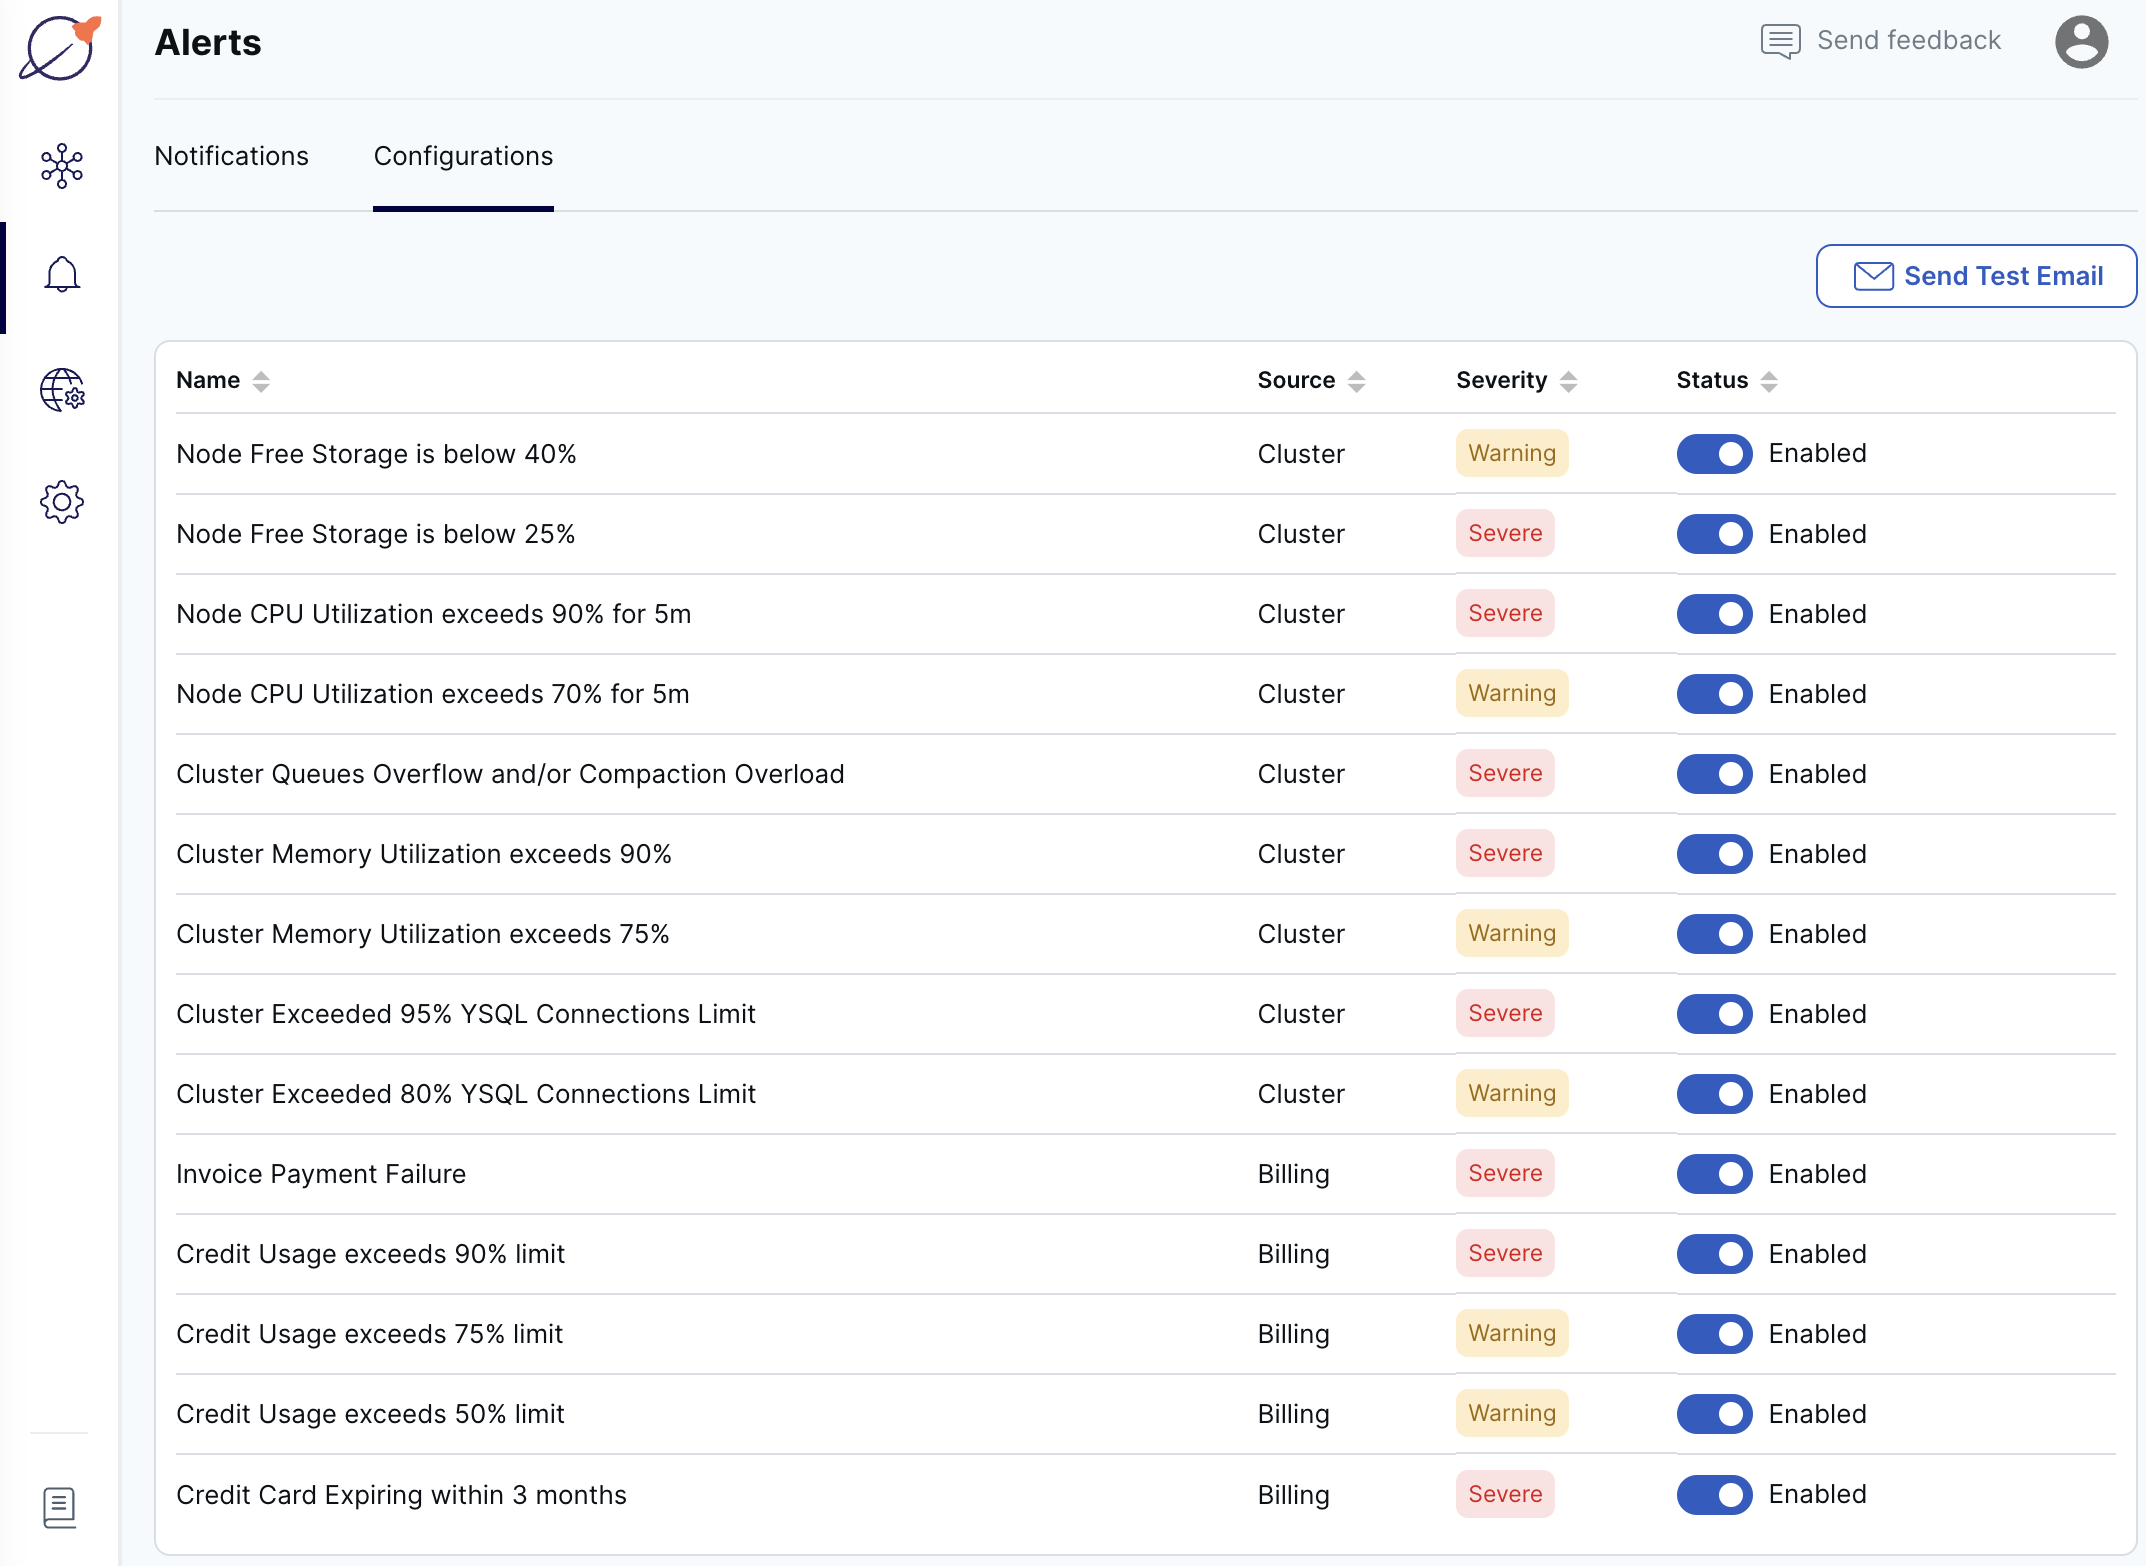
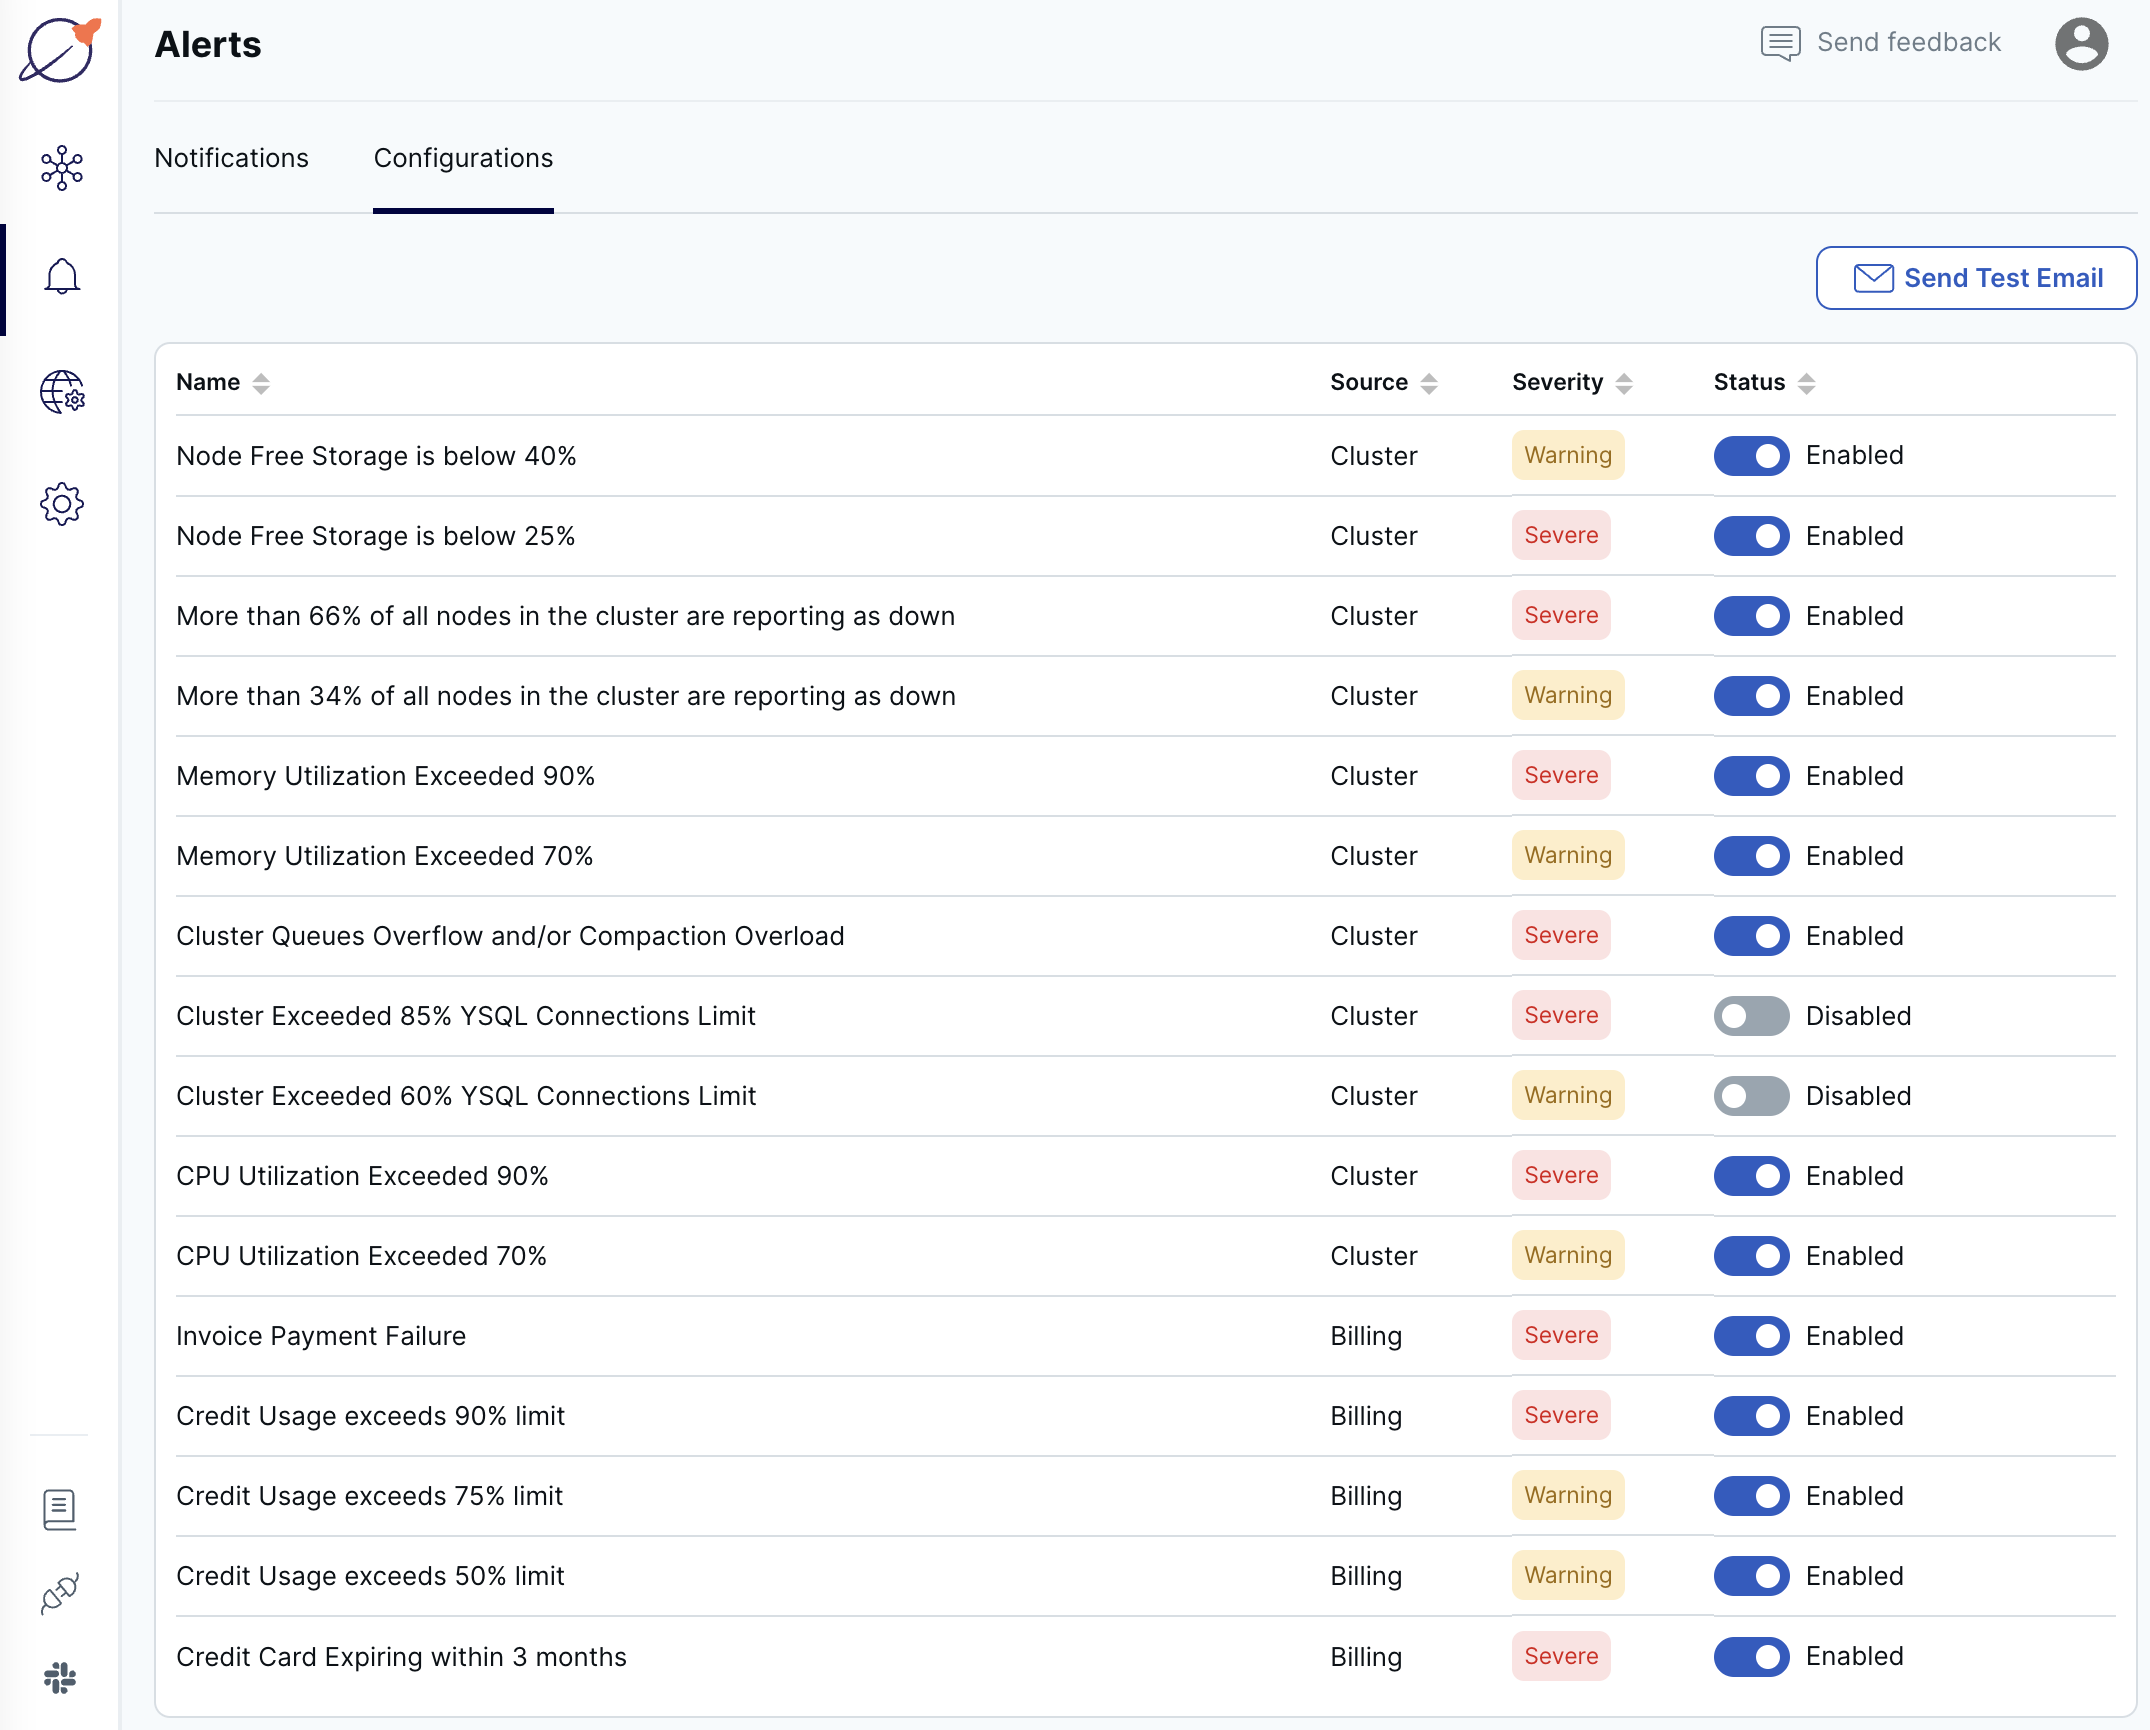
[docs][cloud] Cluster health (#14753)
* cluster health

* format

* review comment

* screenshot

* review comments

* review comments

* minor edit

diff --git a/docs/content/preview/yugabyte-cloud/cloud-monitor/cloud-alerts.md b/docs/content/preview/yugabyte-cloud/cloud-monitor/cloud-alerts.md
@@ -24,7 +24,7 @@ To monitor clusters in real time, use the performance metrics on the cluster [Ov
 - When an alert triggers, YugabyteDB Managed sends an email notification once, regardless of how long the condition lasts.
 - When an alert triggers, a notification displays on the **Notifications** page. After the alert condition resolves, the notification dismisses automatically.
 - Alerts are enabled for all clusters in your account.
-- Alerts can have two severity levels: Warning or Severe.
+- Alerts can have two severity levels: Warning or Severe. A third level, Info, does not trigger a notification.
 
 ## Configure alerts
 
@@ -48,9 +48,27 @@ Open notifications are listed on the **Notifications** tab on the **Alerts** pag
 
 When the condition that caused the alert resolves, the notification dismisses automatically.
 
+## Cluster health
+
+YugabyteDB monitors the health of your clusters based on [cluster alert](#cluster-alerts) conditions and displays the health as either Healthy, Needs Attention, or Unhealthy. The following table provides details on the criteria used to determine the cluster health.
+
+| Status | Alert | Level |
+| :----- | :---- | :---- |
+| Healthy | No alerts<br/>[Fewer than 34% of nodes down](#fix-nodes-reporting-as-down-alerts) | <br/>Info |
+| Needs Attention | [Node free storage](#fix-storage-alerts)<br/>[More than 34% of nodes down](#fix-nodes-reporting-as-down-alerts)<br/>[Memory Utilization](#fix-memory-alerts)<br/>[YSQL Connections](#fix-ysql-connection-alerts)<br/>[CPU Utilization](#fix-cpu-alerts) | Warning or Severe<br/>Warning<br/>Warning or Severe<br/>Warning or Severe<br/>Warning or Severe
+| Unhealthy | [More than 66% of nodes down](#fix-nodes-reporting-as-down-alerts) | Severe |
+
+To see the alert conditions that caused the current health condition, click the cluster health icon.
+
+If multiple alerts are triggered, the most severe alert determines the health that is reported.
+
+Cluster health is updated every three minutes.
+
 ## Fixing alerts
 
 Alerts can trigger for issues with a particular cluster, or for billing issues.
+
+Alerts can have two severity levels: Warning or Severe. The nodes down alert has a third level, Info, which is reported in the cluster health, and does not trigger a notification.
 
 ### Cluster alerts
 
@@ -58,12 +76,14 @@ When you receive a cluster alert, the first step is to review the chart for the 
 
 | Alert | Chart |
 | :--- | :--- |
-| Node CPU Utilization | CPU Usage |
 | Node Free Storage | Disk Usage |
+| Memory Use | Memory Usage |
 | Cluster Queues Overflow | RPC Queue Size |
 | Compaction Overload | Compaction |
-| Memory Use | Memory Usage |
 | YSQL Connections | YSQL Operations/Sec |
+| CPU Utilization | CPU Usage |
+
+For a nodes down alert, go to the cluster **Nodes** tab to see which nodes are down.
 
 You can view the metrics on the cluster **Performance** tab. Refer to [Performance metrics](../overview/#performance-metrics).
 
@@ -86,20 +106,33 @@ Consider increasing the disk space per node. By default, you are entitled to 50G
 
 For information on scaling clusters, refer to [Scale and configure clusters](../../cloud-clusters/configure-clusters/).
 
-#### Fix CPU alerts
+#### Fix nodes reporting as down alerts
 
-YugabyteDB Managed sends a notification when CPU use on any node in the cluster exceeds the threshold, as follows:
+YugabyteDB Managed sends a notification when the number of nodes that are down in a cluster exceeds the threshold, as follows:
 
-- Node CPU use exceeds 70% on average for at least 5 minutes (Warning).
-- Node CPU use exceeds 90% on average for at least 5 minutes (Severe).
+- More than 34% of all nodes in the cluster are reporting as down (Warning).
+- More than 66% of all nodes in the cluster are reporting as down (Severe).
 
-If your cluster experiences frequent spikes in CPU use, consider optimizing your workload.
+If fewer than 34% of nodes in a multi-node (that is, highly available) cluster are down, the cluster remains healthy and can continue to serve requests, and the status is reported in the [cluster health](#cluster-health).
 
-Unoptimized queries can lead to CPU alerts. Use the [Slow Queries](../cloud-queries-slow/) and [Live Queries](../cloud-queries-live/) views to identify potentially problematic queries, then use the EXPLAIN statement to see the query execution plan and identify optimizations. Consider adding one or more indexes to improve query performance. For more information, refer to [Analyzing Queries with EXPLAIN](../../../explore/query-1-performance/explain-analyze/).
+If more than 66% of nodes in a multi-node (that is, highly available) cluster are down, the cluster is considered unhealthy and the downed nodes should be replaced as soon as possible.
 
-High CPU use could also indicate a problem and may require debugging by {{% support-cloud %}}.
+When cluster nodes go down, Yugabyte is notified automatically and will restore the nodes as quickly as possible.
 
-If CPU use is continuously higher than 80%, your workload may also exceed the capacity of your cluster. Consider scaling your cluster by adding vCPUs. Refer to [Scale and configure clusters](../../cloud-clusters/configure-clusters/).
+#### Fix memory alerts
+
+YugabyteDB Managed sends a notification when memory use in the cluster exceeds the threshold, as follows:
+
+- Memory use exceeds 75% (Warning).
+- Memory use exceeds 90% (Severe).
+
+If your cluster experiences frequent spikes in memory use, consider optimizing your workload.
+
+Unoptimized queries can lead to memory alerts. Use the [Slow Queries](../cloud-queries-slow/) and [Live Queries](../cloud-queries-live/) views to identify potentially problematic queries, then use the `EXPLAIN` statement to see the query execution plan and identify optimizations. Consider adding one or more indexes to improve query performance. For more information, refer to [Analyzing Queries with EXPLAIN](../../../explore/query-1-performance/explain-analyze/).
+
+If memory use is continuously higher than 80%, your workload may also exceed the capacity of your cluster. If the issue isn't a single query that consumes a lot of memory on a single tablet, consider scaling your cluster vertically by adding vCPUs to increase capacity per node, or horizontally by adding nodes to reduce the load per node. Refer to [Scale and configure clusters](../../cloud-clusters/configure-clusters/).
+
+High memory use could also indicate a problem and may require debugging by {{% support-cloud %}}.
 
 #### Fix database overload alerts
 
@@ -124,21 +157,6 @@ If your cluster generates this alert, you may need to rate limit your queries. L
 
 If your cluster generates this alert but isn't under a very large workload, contact {{% support-cloud %}}.
 
-#### Fix memory alerts
-
-YugabyteDB Managed sends a notification when memory use in the cluster exceeds the threshold, as follows:
-
-- Memory use exceeds 75% (Warning).
-- Memory use exceeds 90% (Severe).
-
-If your cluster experiences frequent spikes in memory use, consider optimizing your workload.
-
-Unoptimized queries can lead to memory alerts. Use the [Slow Queries](../cloud-queries-slow/) and [Live Queries](../cloud-queries-live/) views to identify potentially problematic queries, then use the EXPLAIN statement to see the query execution plan and identify optimizations. Consider adding one or more indexes to improve query performance. For more information, refer to [Analyzing Queries with EXPLAIN](../../../explore/query-1-performance/explain-analyze/).
-
-If memory use is continuously higher than 80%, your workload may also exceed the capacity of your cluster. If the issue isn't a single query that consumes a lot of memory on a single tablet, consider scaling your cluster by adding nodes to lower the average per-node workload. Adding vCPUs also provides additional memory. Refer to [Scale and configure clusters](../../cloud-clusters/configure-clusters/).
-
-High memory use could also indicate a problem and may require debugging by {{% support-cloud %}}.
-
 #### Fix YSQL connection alerts
 
 YugabyteDB Managed clusters support [10 simultaneous connections](../../cloud-basics/create-clusters-overview/#sizing) per vCPU. YugabyteDB Managed sends a notification when the number of YSQL connections on any node in the cluster exceeds the threshold, as follows:
@@ -155,6 +173,21 @@ You may need to implement some form of connection pooling.
 If the number of connections is continuously higher than 60%, your workload may also exceed the capacity of your cluster. Be sure to size your cluster with enough spare capacity to remain fault tolerant during maintenance events and outages. For example, during an outage or a rolling restart for maintenance, a 3 node cluster loses a third of its capacity. The remaining nodes need to be able to handle the traffic from the absent node.
 
 To add connection capacity, scale your cluster by adding vCPUs or nodes. Refer to [Scale and configure clusters](../../cloud-clusters/configure-clusters/).
+
+#### Fix CPU alerts
+
+YugabyteDB Managed sends a notification when CPU use on any node in the cluster exceeds the threshold, as follows:
+
+- Node CPU use exceeds 70% on average for at least 5 minutes (Warning).
+- Node CPU use exceeds 90% on average for at least 5 minutes (Severe).
+
+If your cluster experiences frequent spikes in CPU use, consider optimizing your workload.
+
+Unoptimized queries can lead to CPU alerts. Use the [Slow Queries](../cloud-queries-slow/) and [Live Queries](../cloud-queries-live/) views to identify potentially problematic queries, then use the EXPLAIN statement to see the query execution plan and identify optimizations. Consider adding one or more indexes to improve query performance. For more information, refer to [Analyzing Queries with EXPLAIN](../../../explore/query-1-performance/explain-analyze/).
+
+High CPU use could also indicate a problem and may require debugging by {{% support-cloud %}}.
+
+If CPU use is continuously higher than 80%, your workload may also exceed the capacity of your cluster. Consider scaling your cluster vertically by adding vCPUs to increase capacity per node, or horizontally by adding nodes to reduce the load per node. Refer to [Scale and configure clusters](../../cloud-clusters/configure-clusters/).
 
 ### Billing alerts
 
